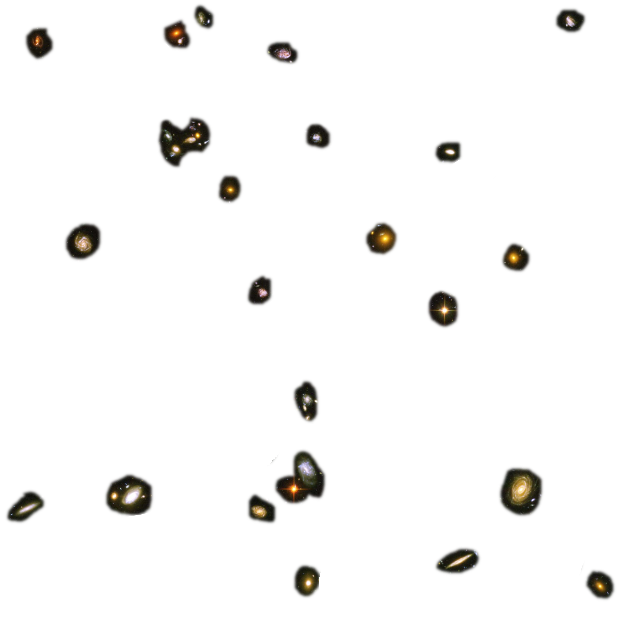
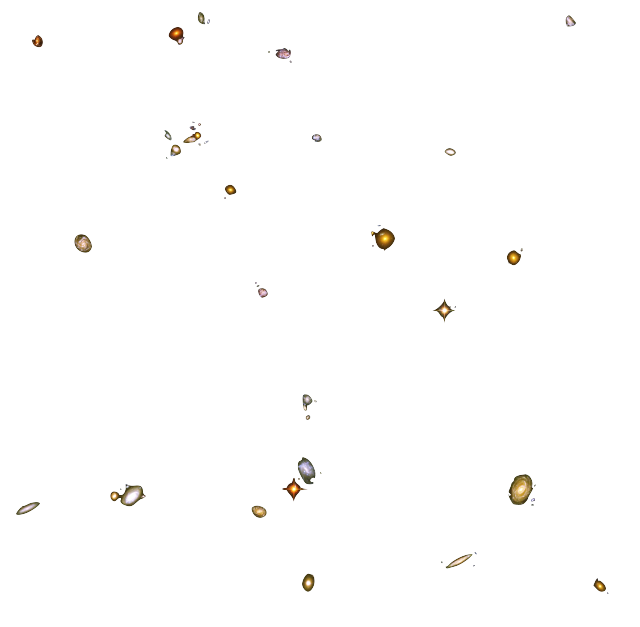
refine star images

diff --git a/scss/_misc.scss b/scss/_misc.scss
@@ -39,7 +39,7 @@ body {/* test */
         -webkit-tap-highlight-color: rgba(0,0,0,0);
         -webkit-touch-callout: none;
 
-        background: url(../images/galaxies1.png);
+        background: url('../images/galaxies1.png');
         height: 4000px;
         overflow: hidden;
         position: absolute;
@@ -64,7 +64,7 @@ body {/* test */
         z-index: 2;
     }
     #stars1 {
-        background: url(../images/galaxies2.png);
+        background: url('../images/galaxies2.png');
         height: 3000px;
         z-index: 2;
     }
@@ -72,8 +72,8 @@ body {/* test */
         z-index: 1;
     }
     #stars2 {
-        z-index: 1;
+        background: url('../images/stars.png');
         height: 2000px;
-        background: url(../images/stars.jpg);
+        z-index: 1;
     }
 }
